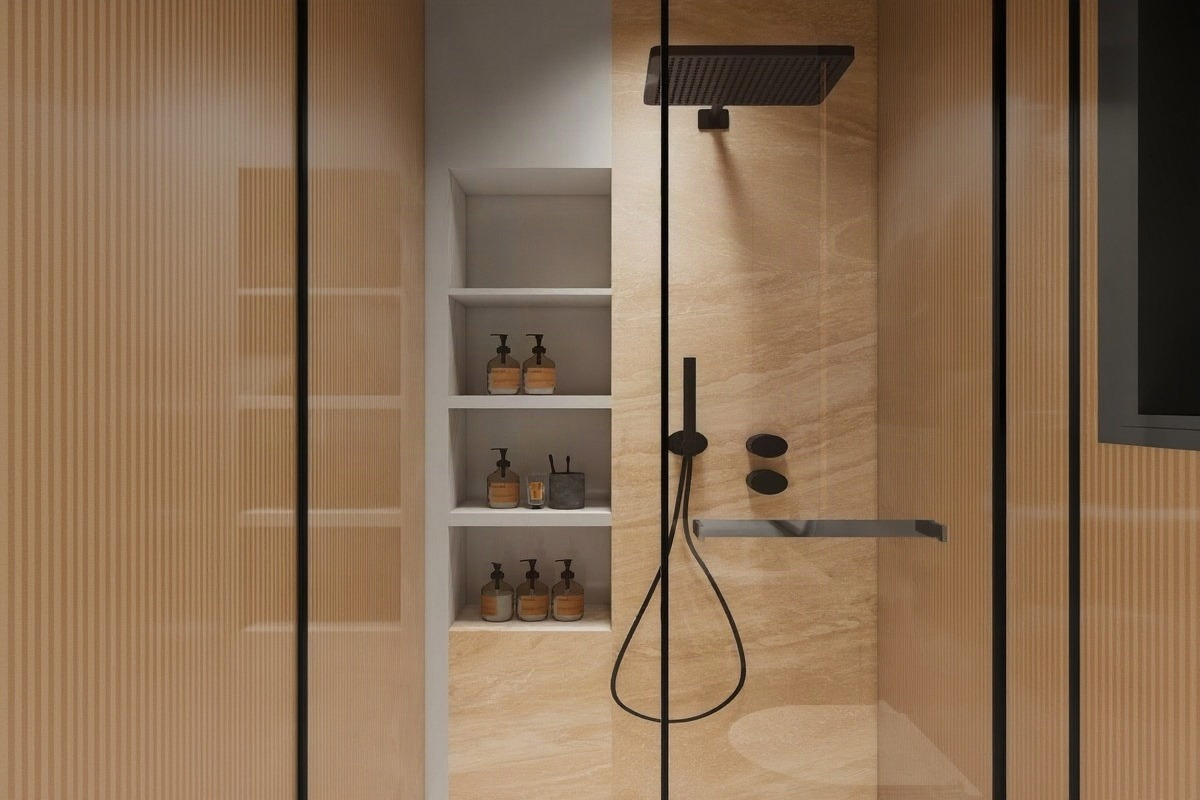
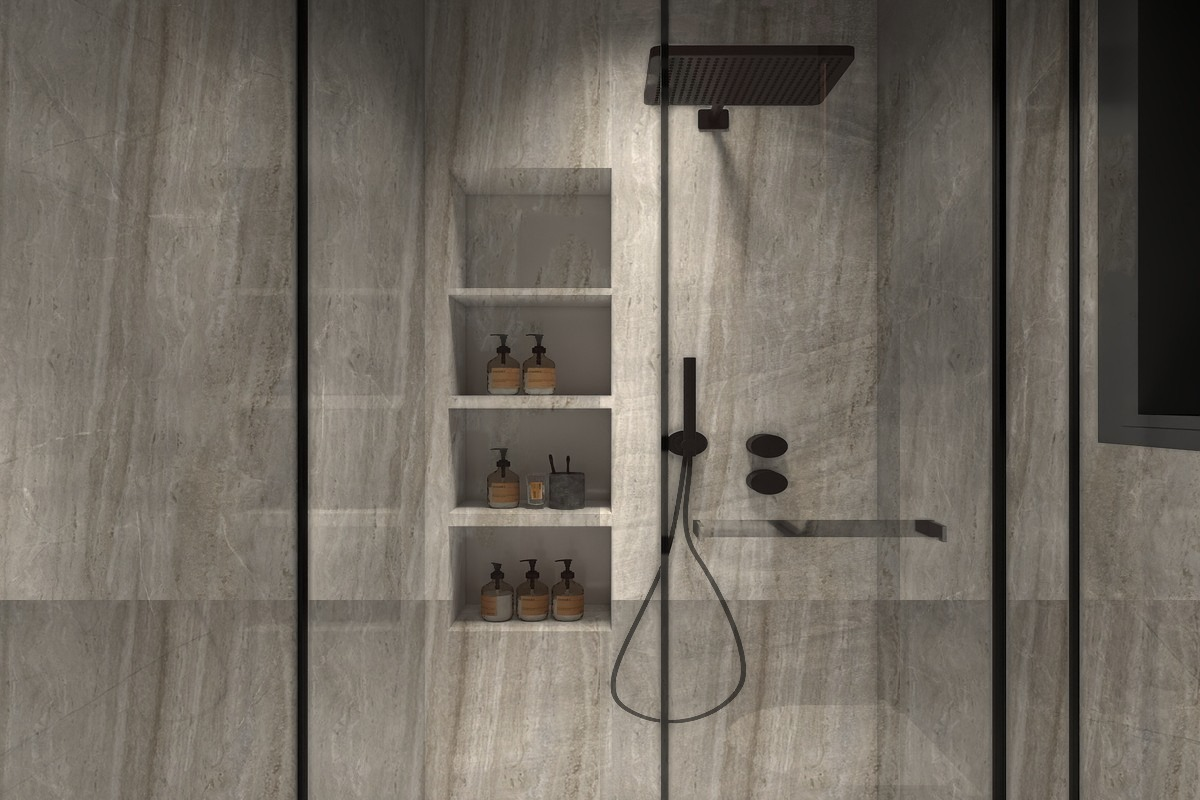
Bathrooms: owner's real travertine tile swapped into the designer's views (shading preserved)
Claude-Session: https://claude.ai/code/session_01Y66GuRywBsTRh1cQJ3PYHH

diff --git a/design/render/tile_swap.py b/design/render/tile_swap.py
@@ -1,0 +1,29 @@
+"""Swap the designer's grey marble for the owner's real travertine tile (image space, shading preserved)."""
+import sys, numpy as np
+from PIL import Image, ImageFilter
+TEX = '/home/user/My-apartment/design/phase-1/img/travertine_tile_rect.jpg'
+
+def swap(src, dst, tile_px=260):
+    im = Image.open(src).convert('RGB'); W, H = im.size
+    a = np.asarray(im).astype(float) / 255
+    hsv = np.asarray(im.convert('HSV')).astype(float) / 255; s, v = hsv[..., 1], hsv[..., 2]
+    m = ((s < 0.14) & (v > 0.25) & (v < 0.97)).astype('uint8') * 255
+    m = Image.fromarray(m).filter(ImageFilter.MaxFilter(9)).filter(ImageFilter.MinFilter(9)).filter(ImageFilter.MinFilter(3)).filter(ImageFilter.GaussianBlur(1.2))
+    m = np.asarray(m).astype(float)[..., None] / 255
+    t = Image.open(TEX).convert('RGB'); k = tile_px / t.size[0]   # one real 60x120 tile, laid vertically
+    t = t.resize((int(t.size[0] * k), int(t.size[1] * k)), Image.LANCZOS)
+    big = Image.new('RGB', (W, H))
+    for x in range(0, W, t.size[0]):
+        for y in range(0, H, t.size[1]): big.paste(t, (x, y))
+    tex = np.asarray(big).astype(float) / 255
+    mu = tex.reshape(-1, 3).mean(0); tex = mu + 0.65 * (tex - mu); tex = tex * np.array([1.05, 1.0, 0.93])
+    tl = tex @ [0.299, 0.587, 0.114]; tex = tex / tl.mean()          # texture colour, normalised to mean lum 1
+    L = a @ [0.299, 0.587, 0.114]
+    shade = np.asarray(Image.fromarray((L * 255).astype('uint8')).filter(ImageFilter.GaussianBlur(6))).astype(float) / 255
+    detail = L / np.maximum(shade, 1e-3)                               # keeps joints and small shadows
+    new = np.clip(tex * (shade * 1.02)[..., None] * np.clip(detail, 0.6, 1.2)[..., None], 0, 1)
+    out = a * (1 - m) + new * m
+    Image.fromarray((out * 255).astype('uint8')).save(dst, quality=92)
+
+if __name__ == '__main__':
+    swap(sys.argv[1], sys.argv[2], int(sys.argv[3]) if len(sys.argv) > 3 else 360)

diff --git a/design/constitution/README.md b/design/constitution/README.md
@@ -14,5 +14,5 @@ Approved by the owner on the main living room. It applies to every room, with va
 | Lighting | Paper lantern pendants, linen lamps, LED coves and lit niches. |
 | Accents | Sage / butter yellow / rust. Accents only, never whole rooms. |
 | Rooms | Master: dusty blush + ivory. Child: butter accent only. Family lounge: sage + butter. Greenhouse: approved as is. |
-| Bathrooms | LOCKED: travertine vein-cut tile (see bathroom_travertine_tile.png) on the floor and ALL walls, floor to ceiling. Medium oak floating vanity, arched backlit mirror, brass sconces and fittings. |
+| Bathrooms | LOCKED: travertine vein-cut tile (see bathroom_travertine_tile.png; rectified texture phase-1/img/travertine_tile_rect.jpg) on the floor and ALL walls, floor to ceiling. Medium oak floating vanity, arched backlit mirror, brass sconces and fittings. |
 | Circulation | Every corridor/stair wall gets one composed moment: an arched niche with a console, artwork or sconces, and a runner. |
